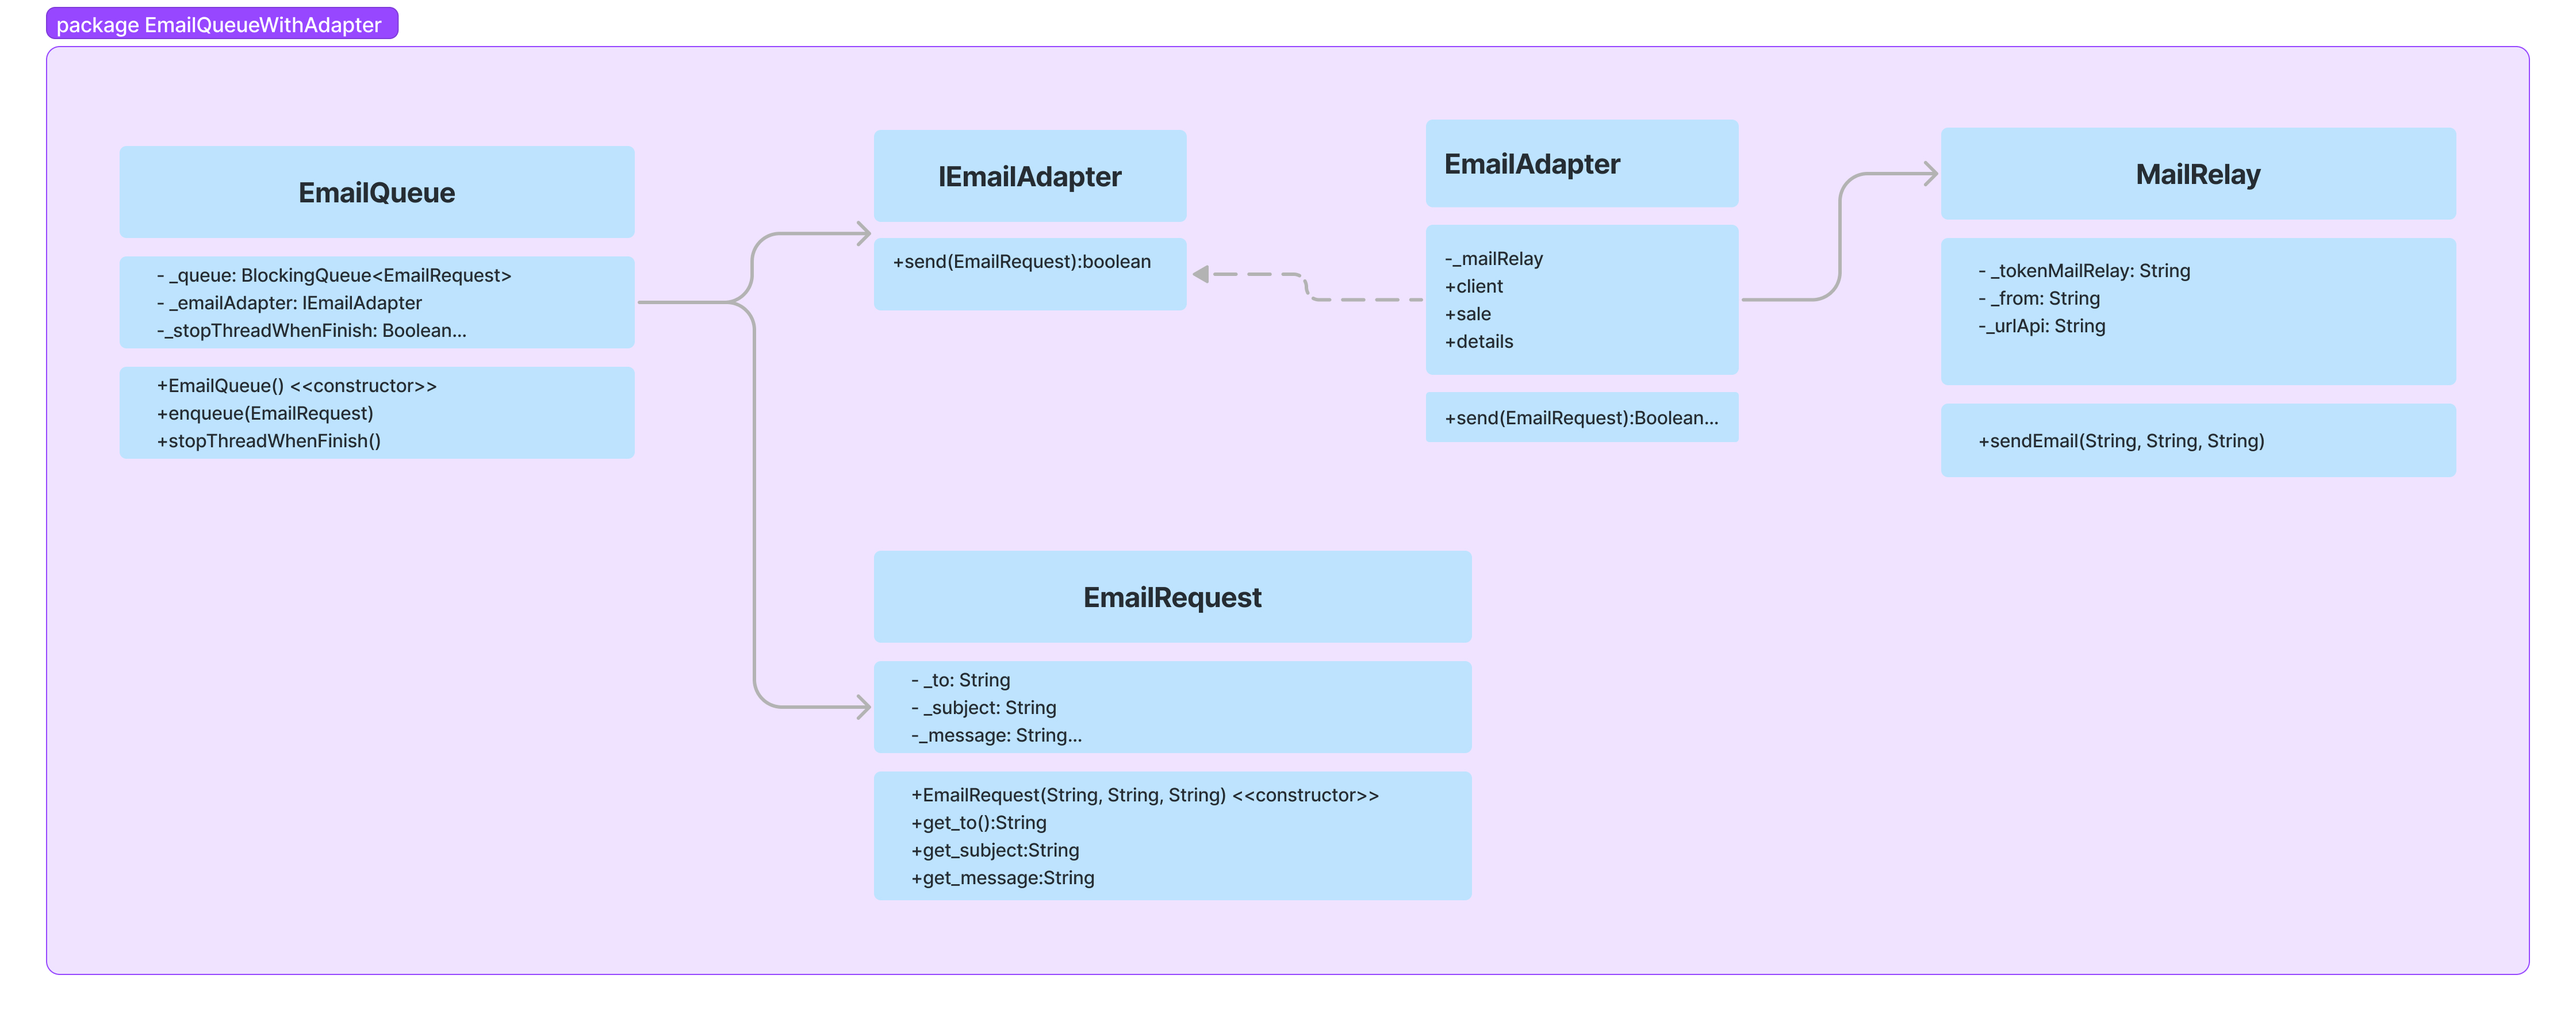
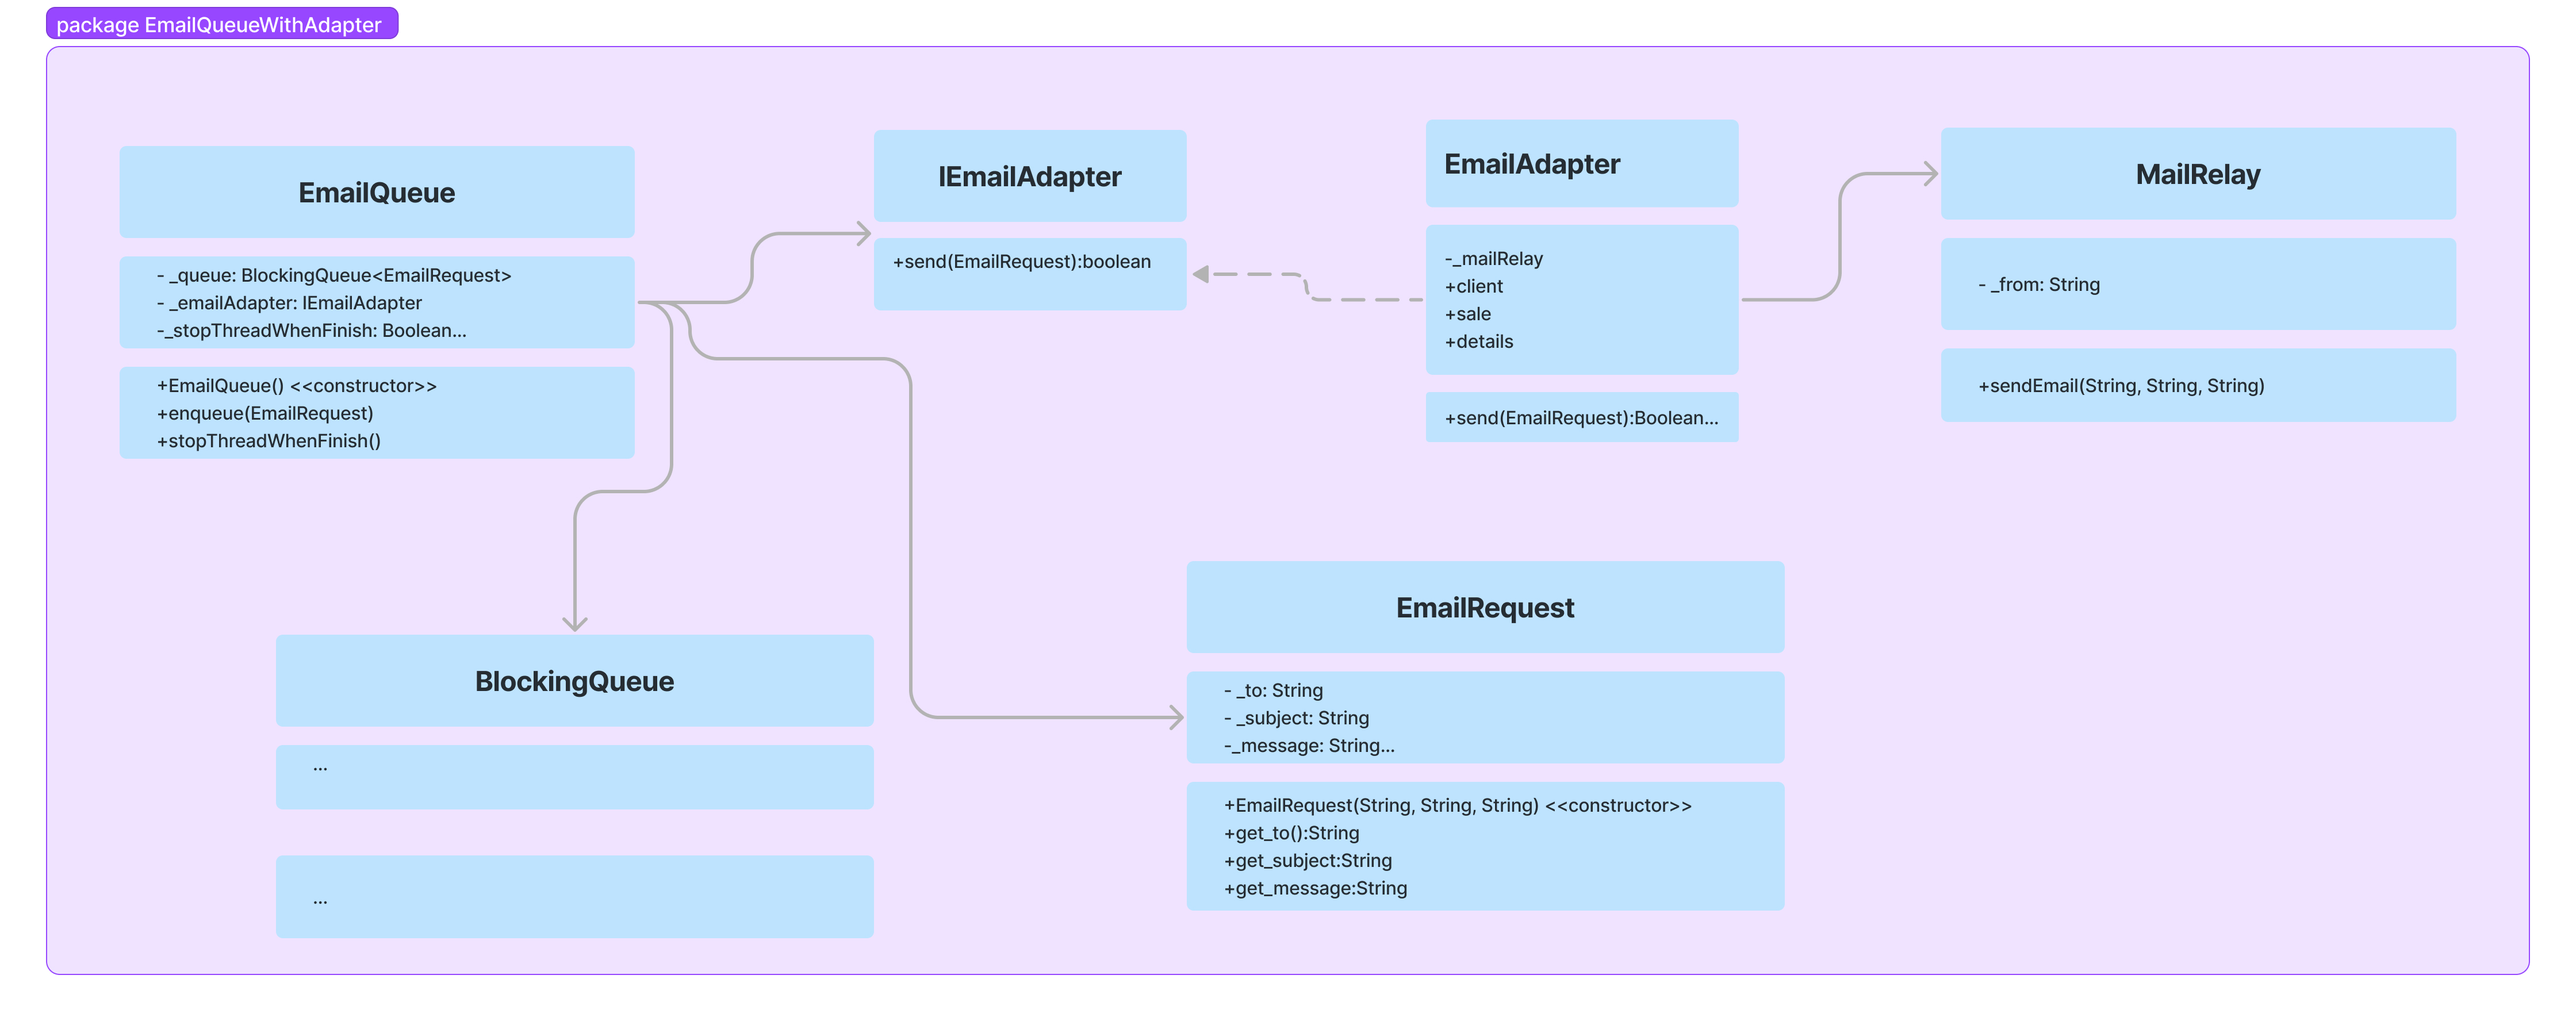
He simplificado MailRelay

diff --git a/src/EmailQueueWithAdapter/MailRelay.java b/src/EmailQueueWithAdapter/MailRelay.java
@@ -1,71 +1,25 @@
 package EmailQueueWithAdapter;
 
-// import java.io.BufferedReader;
-// import java.io.DataOutputStream;
-// import java.io.InputStreamReader;
-import java.net.HttpURLConnection;
-import java.net.URL;
-
 
 /* Clase que implementa el envío de email a traves de la API del servicio online MailRelay 
  * Esta clase simula a la libreria o jar que nos proporcionaría MailRelay para su utilización.
 */
 public class MailRelay {
-    private String _tokenMailRelay="ec575826-523b-4296-8146-e52120cd2c35"; // Token del servicio online MailRelay, este lo tenemos que generar desde la web.
     private String _from="grupal@reutilizacionsoftware.com"; // Remitente del email, por defecto ponemos uno imaginario.
-    private String _urlApi="https://simuladorenvioemail.emailrelay.com/api/"; // URL de la API del servicio online MailRelay
 
 
     // Método para enviar el email a través del API
     public boolean sendEmail(String to, String subject, String message) {
-        String urlSendEmail = _urlApi + "sendemail";
-
         try {
-            // Crea la conexión con la API
-            URL url = new URL(urlSendEmail);
-            HttpURLConnection con = (HttpURLConnection) url.openConnection();
-      
-            // Establece el método de la petición como POST
-            con.setRequestMethod("POST");
-      
-            // Establece los encabezados de la petición
-            con.setRequestProperty("Authorization", _tokenMailRelay);
-            con.setRequestProperty("Content-Type", "application/json");
-            con.setRequestProperty("Accept", "application/json");
-      
-            // Establece que se permitirá enviar información en el cuerpo de la petición
-            con.setDoOutput(true);
+    
       
             // Crea el cuerpo de la petición en formato JSON
             String jsonInputString = "{\"to\":\"" + to + "\",\"from\":\"" + _from + "\",\"subject\":\"" + subject + "\",\"message\":\"" + message + "\"}";
       
-            System.out.println("Objeto JSON que se envía al API:\n" + jsonInputString);
+            System.out.println("Email enivado: Objeto JSON que se envía a través dee MailRelay:\n" + jsonInputString);
       
-            int responseCode = 200; // Ok
-            String responseMessage = "El email se ha enviado correctamente";
 
 
-            // // Envía la petición al servidor
-            // try (DataOutputStream wr = new DataOutputStream(con.getOutputStream())) {
-            // wr.write(jsonInputString.getBytes());
-            // }
-            //  Esto lo comentamos por que lo vamos a simular, el API no existe ;-)
-            // // Obtiene la respuesta del servidor
-            // int responseCode = con.getResponseCode();
-            // System.out.println("Response code: " + responseCode);
-      
-            // StringBuilder response = new StringBuilder();
-            // try (BufferedReader in = new BufferedReader(
-            //     new InputStreamReader(con.getInputStream()))) {
-            //   String line;
-            //   while ((line = in.readLine()) != null) {
-            //     response.append(line);
-            //   }
-            // }
-      
-            // Muestra la respuesta del servidor
-            System.out.println("Código de respuesta del servidor:" + responseCode);
-            System.out.println("Mensaje de respuesta del servidor" + responseMessage);
           } catch (Exception e) {
             e.printStackTrace();
           }
